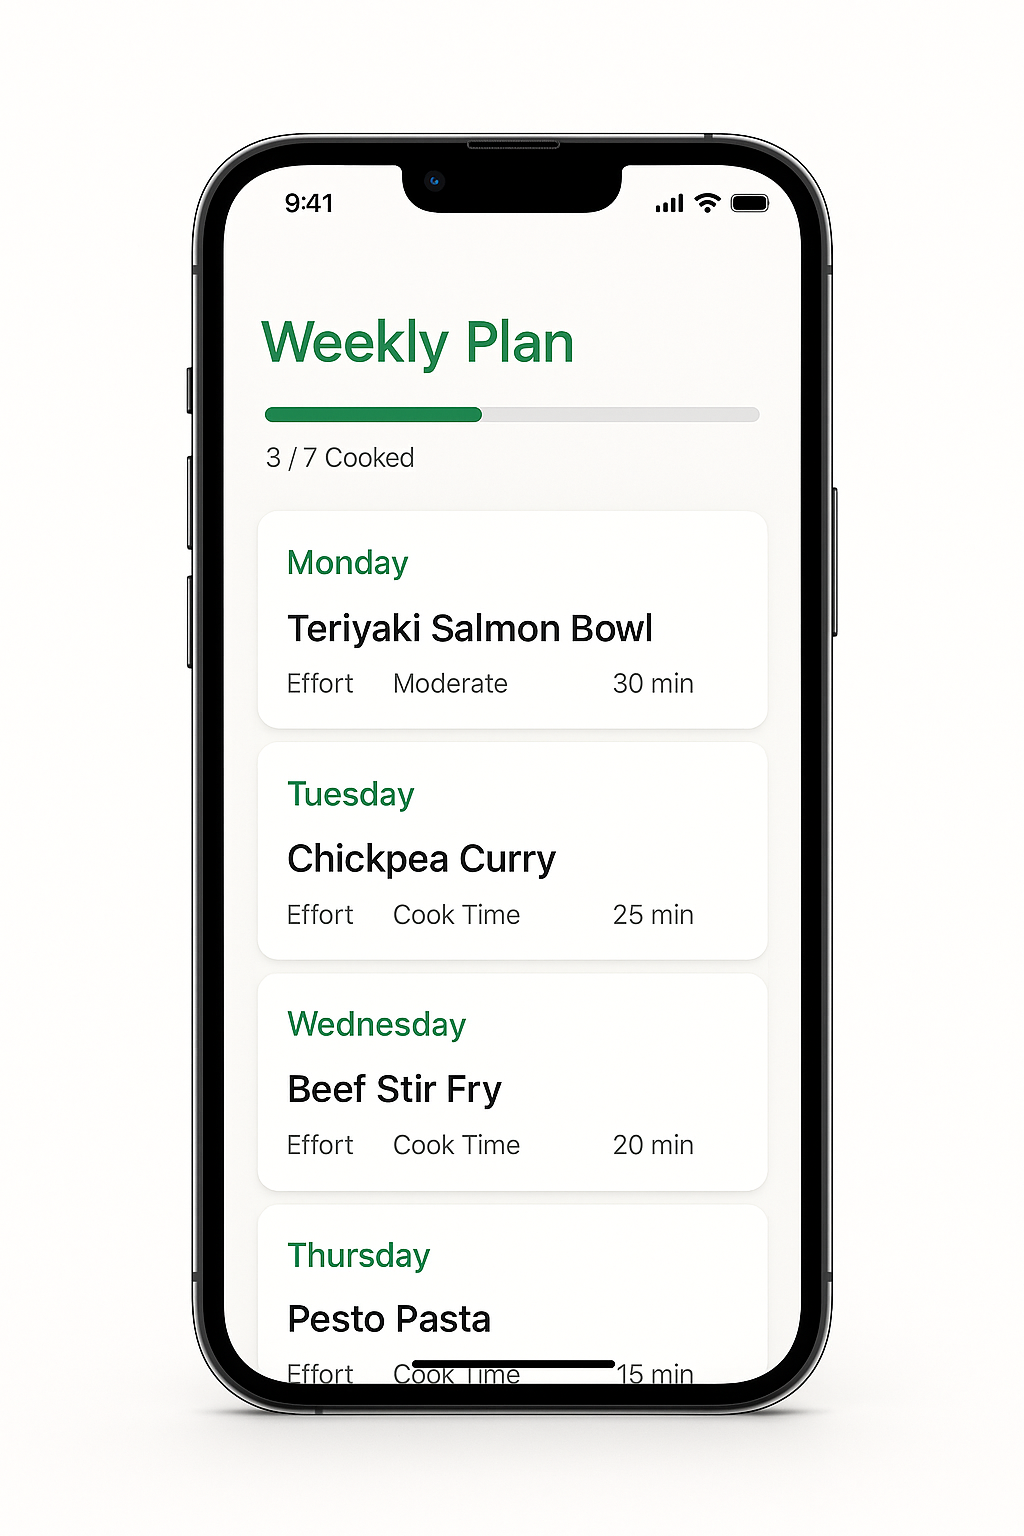
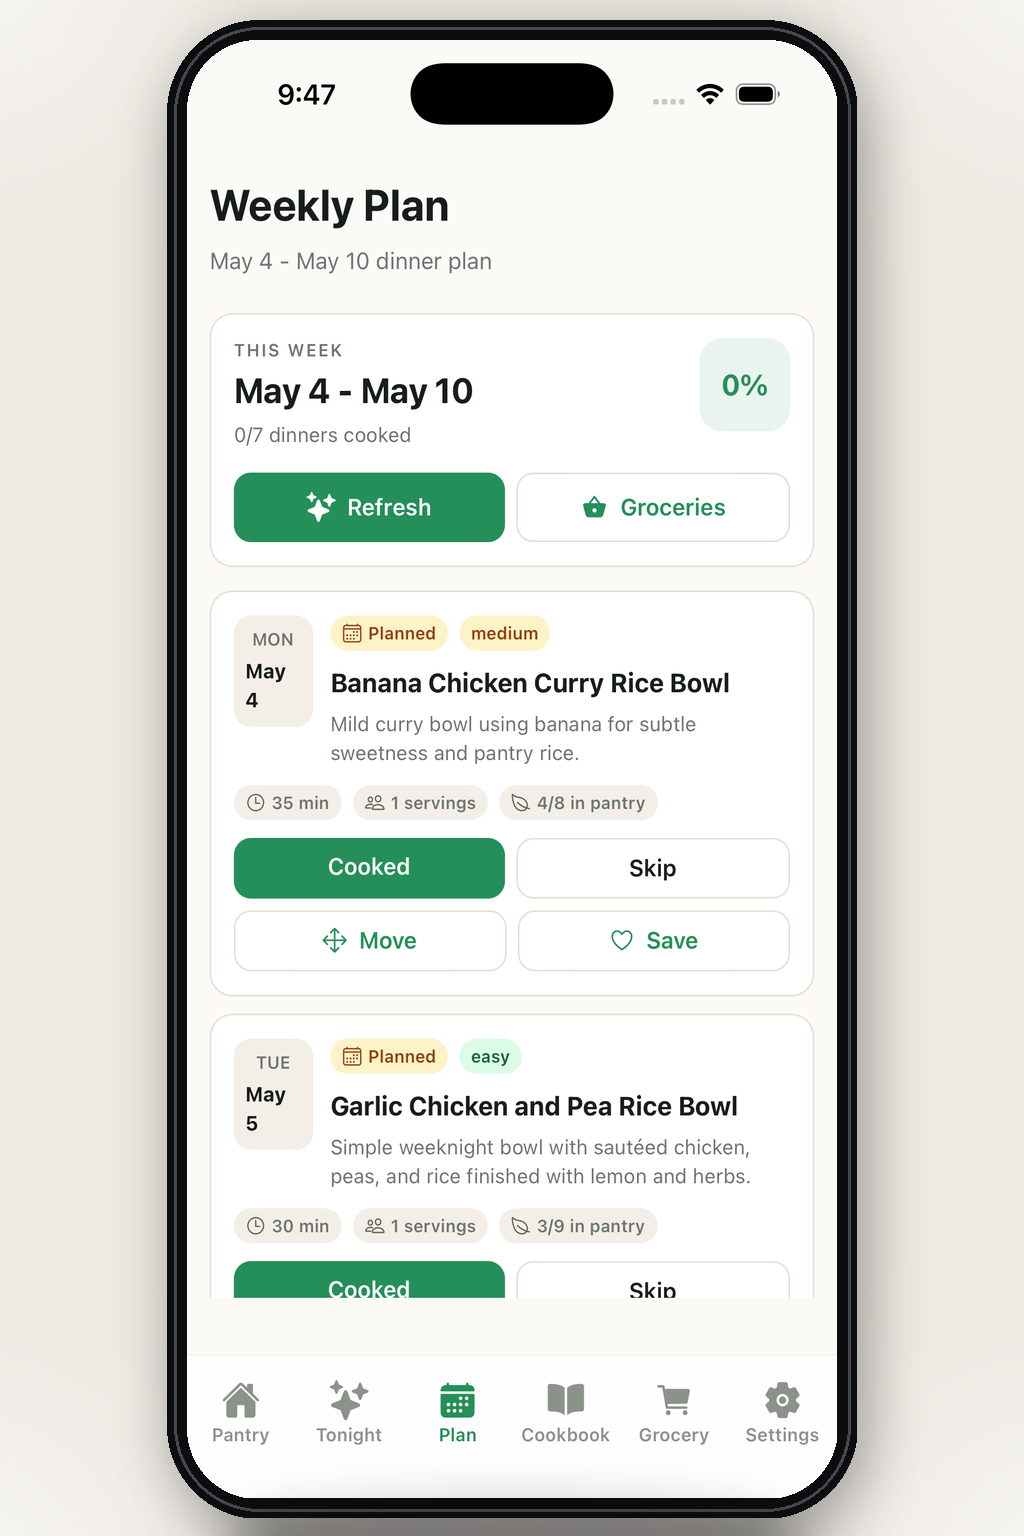
Improve mobile auth and cookbook actions

diff --git a/apps/mobile/app/(tabs)/cookbook.tsx b/apps/mobile/app/(tabs)/cookbook.tsx
@@ -13,8 +13,10 @@ import { api } from "@familyplate/convex/_generated/api";
 import type { Doc, Id } from "@familyplate/convex/_generated/dataModel";
 import { ScreenShell } from "@/components/ScreenShell";
 import { isIngredientAvailable } from "@/lib/ingredientAvailability";
+import { inferCategory } from "@/lib/pantry";
 
 type Recipe = Doc<"recipeSuggestions">;
+type RecipeIngredient = Recipe["ingredients"][number];
 
 function formatSavedDate(timestamp: number) {
   return new Date(timestamp).toLocaleDateString("en-US", {
@@ -38,10 +40,16 @@ function getSourceLabel(source: Recipe["source"]) {
 export default function CookbookScreen() {
   const savedRecipes = useQuery(api.queries.savedRecipes.getMySavedRecipes, {});
   const unsaveRecipe = useMutation(api.mutations.savedRecipes.unsaveRecipe);
+  const addGroceryItem = useMutation(api.mutations.grocery.addMyCustomItem);
   const [expandedId, setExpandedId] = useState<string | null>(null);
   const [removingId, setRemovingId] = useState<string | null>(null);
+  const [addingMissingId, setAddingMissingId] = useState<string | null>(null);
+  const [notice, setNotice] = useState("");
+  const [error, setError] = useState("");
 
   const removeRecipe = (recipe: Recipe) => {
+    setNotice("");
+    setError("");
     Alert.alert(
       "Remove from Cookbook?",
       `${recipe.title} will stay available in generated history, but it will no longer be saved here.`,
@@ -62,6 +70,39 @@ export default function CookbookScreen() {
         },
       ],
     );
+  };
+
+  const addMissingToGrocery = async (recipe: Recipe) => {
+    const missing = recipe.ingredients.filter(
+      (ingredient) => !isIngredientAvailable(ingredient),
+    );
+    if (missing.length === 0) return;
+
+    setAddingMissingId(recipe._id);
+    setNotice("");
+    setError("");
+
+    try {
+      for (const ingredient of missing) {
+        await addGroceryItem({
+          name: ingredient.name,
+          quantity: ingredient.quantity,
+          unit: ingredient.unit,
+          category: inferCategory(ingredient.name),
+        });
+      }
+      setNotice(
+        `Added ${missing.length} missing item${missing.length === 1 ? "" : "s"} to Grocery List.`,
+      );
+    } catch (err) {
+      setError(
+        err instanceof Error
+          ? err.message
+          : "Couldn't add missing ingredients to Grocery List.",
+      );
+    } finally {
+      setAddingMissingId(null);
+    }
   };
 
   return (
@@ -95,6 +136,16 @@ export default function CookbookScreen() {
           </View>
 
           <View className="gap-3">
+            {notice ? (
+              <View className="rounded-xl border border-green-200 bg-green-50 p-3">
+                <Text className="text-sm text-green-700">{notice}</Text>
+              </View>
+            ) : null}
+            {error ? (
+              <View className="rounded-xl border border-red-200 bg-red-50 p-3">
+                <Text className="text-sm text-red-700">{error}</Text>
+              </View>
+            ) : null}
             {savedRecipes.map((savedRecipe) => (
               <RecipeCard
                 key={savedRecipe._id}
@@ -102,12 +153,16 @@ export default function CookbookScreen() {
                 savedAt={savedRecipe.savedAt}
                 expanded={expandedId === savedRecipe.recipe._id}
                 removing={removingId === savedRecipe.recipe._id}
+                addingMissing={addingMissingId === savedRecipe.recipe._id}
                 onToggleExpanded={() =>
                   setExpandedId(
                     expandedId === savedRecipe.recipe._id
                       ? null
                       : savedRecipe.recipe._id,
                   )
+                }
+                onAddMissing={() =>
+                  void addMissingToGrocery(savedRecipe.recipe)
                 }
                 onRemove={() => removeRecipe(savedRecipe.recipe)}
               />
@@ -140,14 +195,18 @@ function RecipeCard({
   savedAt,
   expanded,
   removing,
+  addingMissing,
   onToggleExpanded,
+  onAddMissing,
   onRemove,
 }: {
   recipe: Recipe;
   savedAt: number;
   expanded: boolean;
   removing: boolean;
+  addingMissing: boolean;
   onToggleExpanded: () => void;
+  onAddMissing: () => void;
   onRemove: () => void;
 }) {
   const pantryCount = recipe.ingredients.filter((ingredient) =>
@@ -157,6 +216,9 @@ function RecipeCard({
   const matchPct =
     totalCount > 0 ? Math.round((pantryCount / totalCount) * 100) : 0;
   const effortColor = getEffortColor(recipe.effortLevel);
+  const missingIngredients = recipe.ingredients.filter(
+    (ingredient) => !isIngredientAvailable(ingredient),
+  );
 
   return (
     <View
@@ -266,6 +328,13 @@ function RecipeCard({
             </View>
           </View>
 
+          <MissingIngredientsAction
+            adding={addingMissing}
+            disabled={removing}
+            missingIngredients={missingIngredients}
+            onAddMissing={onAddMissing}
+          />
+
           <View className="mb-4">
             <Text className="mb-2 text-xs font-semibold uppercase tracking-widest text-muted-foreground">
               Instructions
@@ -307,6 +376,49 @@ function RecipeCard({
         </View>
       ) : null}
     </View>
+  );
+}
+
+function MissingIngredientsAction({
+  adding,
+  disabled,
+  missingIngredients,
+  onAddMissing,
+}: {
+  adding: boolean;
+  disabled: boolean;
+  missingIngredients: RecipeIngredient[];
+  onAddMissing: () => void;
+}) {
+  if (missingIngredients.length === 0) {
+    return (
+      <View className="mb-4 flex-row items-center gap-2 rounded-xl border border-green-200 bg-green-50 p-3">
+        <Ionicons name="checkmark-circle" size={18} color="#15803d" />
+        <Text className="flex-1 text-sm font-medium text-green-700">
+          Everything for this recipe is already in your pantry.
+        </Text>
+      </View>
+    );
+  }
+
+  return (
+    <TouchableOpacity
+      onPress={onAddMissing}
+      disabled={adding || disabled}
+      className="mb-4 flex-row items-center justify-center gap-2 rounded-xl border border-border bg-card py-3"
+      style={{ opacity: adding || disabled ? 0.55 : 1 }}
+    >
+      {adding ? (
+        <ActivityIndicator color="#248f58" />
+      ) : (
+        <Ionicons name="cart-outline" size={17} color="#248f58" />
+      )}
+      <Text className="font-semibold text-primary">
+        {adding
+          ? "Adding..."
+          : `Add ${missingIngredients.length} missing to Grocery`}
+      </Text>
+    </TouchableOpacity>
   );
 }
 

diff --git a/apps/mobile/app/sign-in.tsx b/apps/mobile/app/sign-in.tsx
@@ -17,6 +17,29 @@ import { Ionicons } from "@expo/vector-icons";
 
 type Mode = "signIn" | "signUp";
 
+function getAuthErrorMessage(err: unknown, mode: Mode) {
+  const message = err instanceof Error ? err.message : String(err);
+  const lower = message.toLowerCase();
+
+  if (mode === "signUp") {
+    if (lower.includes("invalid password")) {
+      return "Password must be at least 8 characters.";
+    }
+    if (lower.includes("already") || lower.includes("server error")) {
+      return "An account with this email may already exist. Try signing in instead.";
+    }
+    return `Could not create account: ${message}`;
+  }
+
+  if (lower.includes("invalid") || lower.includes("credentials")) {
+    return "We couldn't sign you in with that email and password.";
+  }
+  if (lower.includes("server error")) {
+    return "Could not sign in right now. Please try again.";
+  }
+  return "Couldn't sign in. Check your email and password.";
+}
+
 export default function SignInScreen() {
   const { signIn } = useAuthActions();
   const { isAuthenticated } = useConvexAuth();
@@ -31,24 +54,25 @@ export default function SignInScreen() {
   }
 
   const handleSubmit = async () => {
-    if (!email.trim() || !password.trim()) {
+    const trimmedEmail = email.trim();
+    if (!trimmedEmail || !password.trim()) {
       setError("Email and password required.");
+      return;
+    }
+    if (mode === "signUp" && password.length < 8) {
+      setError("Password must be at least 8 characters.");
       return;
     }
     setIsSubmitting(true);
     setError("");
     try {
       await signIn("password", {
-        email: email.trim(),
+        email: trimmedEmail,
         password,
         flow: mode,
       });
     } catch (err) {
-      setError(
-        err instanceof Error
-          ? err.message
-          : "Couldn't sign in. Check your email and password.",
-      );
+      setError(getAuthErrorMessage(err, mode));
       setIsSubmitting(false);
     }
   };
@@ -155,6 +179,11 @@ export default function SignInScreen() {
                     onChangeText={setPassword}
                     editable={!isSubmitting}
                   />
+                  {mode === "signUp" ? (
+                    <Text className="mt-2 text-xs text-muted-foreground">
+                      Use at least 8 characters.
+                    </Text>
+                  ) : null}
                 </View>
               </View>
 